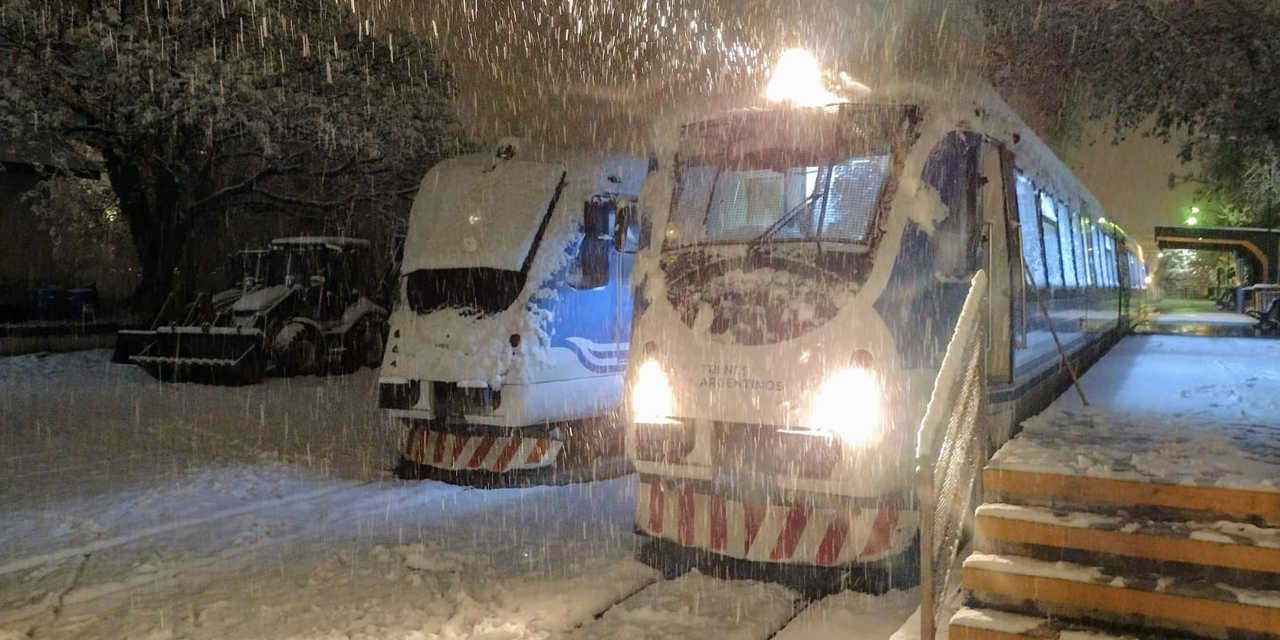
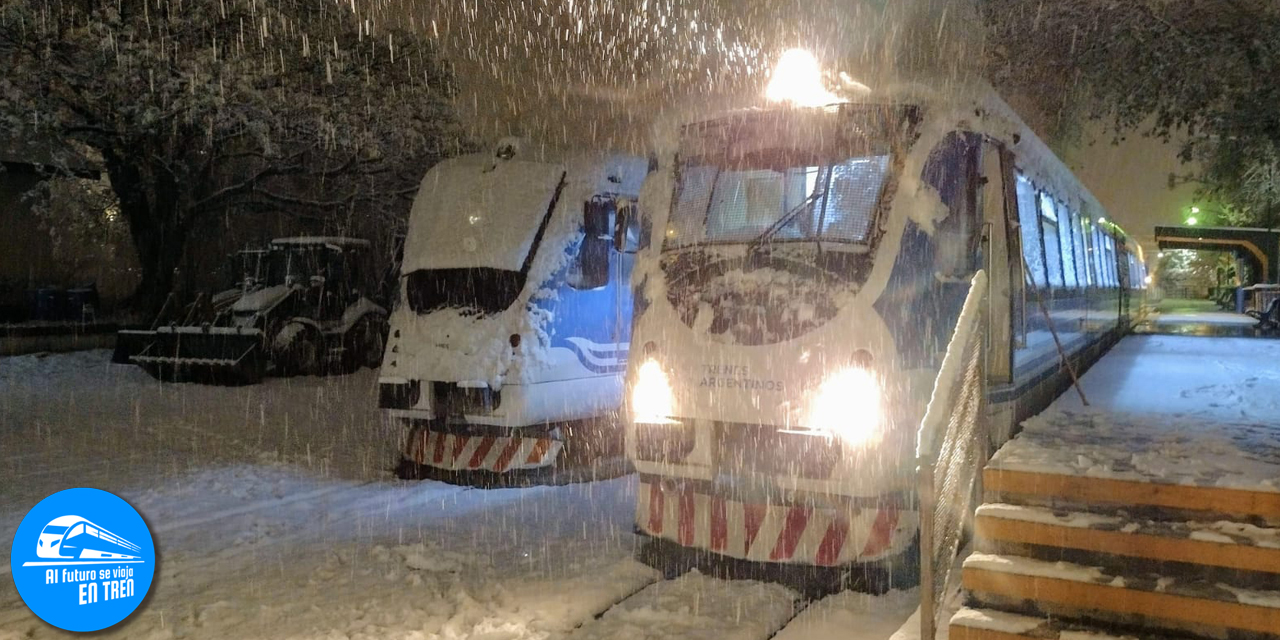
agregue info a la seccion de firma nuestra peticion

Changed region(s): [[0.0, 0.75, 0.125, 1.0]]

diff --git a/index.html b/index.html
@@ -154,7 +154,7 @@
       </div>
 
         <a class="navbar-brand me-5 d-lg-none" href="#">Herramientas</a>
-        <a class="navbar-brand me-5 d-none d-lg-block d-xl-block" href="#">Al Futuro se viaja EN TREN</a>
+        <a class="navbar-brands me-5 d-none d-lg-block d-xl-block" href="#">Al Futuro se viaja EN TREN</a>
         <div class="d-flex justify-content-center">
           <i class="bi bi-brightness-high"></i>
           <div class="form-check form-switch">
@@ -383,6 +383,9 @@
                       class="p-2 stextcolor mt-5 roboto-mono"
                       href="https://chng.it/Lj4djB2YS8"
                     >
+                    <div class="d-flex justify-content-center">
+                      <h5 class="w-75 fuente-defecto">Si estas de acuerdo en que el gobierno nacional debe mejorar los servicios ferroviarios para poder viajar mejor, ayudanos firmando nuestra propuesta.</h5>
+                    </div>
                       <button
                         type="button"
                         class="btn btn-firma btn-lg animate__animated animate__pulse animate__infinite"
@@ -415,19 +418,21 @@
                 <div
                   class="position-absolute contenedor-firma-web translate-middle w-100"
                 >
-                  <a
-                    target="_blank"
-                    class="p-2 stextcolor mt-5 roboto-mono"
-                    href="https://chng.it/Lj4djB2YS8"
-                  >
-                    <button
-                      type="button"
-                      id=""
-                      class="btn btn-firma btn-lg animate__animated animate__pulse animate__infinite"
-                    >
-                      ¡Firmá nuestra petición!
-                    </button>
-                  </a>
+                <a
+                target="_blank"
+                class="p-2 stextcolor mt-5 roboto-mono"
+                href="https://chng.it/Lj4djB2YS8"
+              >
+              <div class="d-flex justify-content-center">
+                <h5 class="w-75 fuente-defecto">Si estas de acuerdo en que el gobierno nacional debe mejorar los servicios ferroviarios para poder viajar mejor, ganar tiempo para tu vida personal y tener mejor calidad de vida ayudanos firmando nuestra propuesta.</h5>
+              </div>
+                <button
+                  type="button"
+                  class="btn btn-firma btn-lg animate__animated animate__pulse animate__infinite"
+                >
+                  ¡Firmá nuestra petición!
+                </button>
+              </a>
                   </div>
                 </div>
               </div>
@@ -453,19 +458,21 @@
                 <div
                   class="position-absolute contenedor-firma-web translate-middle w-100"
                 >
-                  <a
-                    target="_blank"
-                    class="p-2 stextcolor mt-5 roboto-mono"
-                    href="https://chng.it/Lj4djB2YS8"
-                  >
-                    <button
-                      type="button"
-                      id=""
-                      class="btn btn-firma btn-lg animate__animated animate__pulse animate__infinite"
-                    >
-                      ¡Firmá nuestra petición!
-                    </button>
-                  </a>
+                <a
+                target="_blank"
+                class="p-2 stextcolor mt-5 roboto-mono"
+                href="https://chng.it/Lj4djB2YS8"
+              >
+              <div class="d-flex justify-content-center">
+                <h5 class="w-75 fuente-defecto">Si estas de acuerdo en que el gobierno nacional debe mejorar los servicios ferroviarios para poder viajar mejor, ganar tiempo para tu vida personal y tener mejor calidad de vida ayudanos firmando nuestra propuesta.</h5>
+              </div>
+                <button
+                  type="button"
+                  class="btn btn-firma btn-lg animate__animated animate__pulse animate__infinite"
+                >
+                  ¡Firmá nuestra petición!
+                </button>
+              </a>
                   </div>
                 </div>
               </div>
@@ -491,19 +498,21 @@
                 <div
                   class="position-absolute contenedor-firma-web translate-middle w-100"
                 >
-                  <a
-                    target="_blank"
-                    class="p-2 stextcolor mt-5 roboto-mono"
-                    href="https://chng.it/Lj4djB2YS8"
-                  >
-                    <button
-                      type="button"
-                      id=""
-                      class="btn btn-firma btn-lg animate__animated animate__pulse animate__infinite"
-                    >
-                      ¡Firmá nuestra petición!
-                    </button>
-                  </a>
+                <a
+                target="_blank"
+                class="p-2 stextcolor mt-5 roboto-mono"
+                href="https://chng.it/Lj4djB2YS8"
+              >
+              <div class="d-flex justify-content-center">
+                <h5 class="w-75 fuente-defecto">Si estas de acuerdo en que el gobierno nacional debe mejorar los servicios ferroviarios para poder viajar mejor, ganar tiempo para tu vida personal y tener mejor calidad de vida ayudanos firmando nuestra propuesta.</h5>
+              </div>
+                <button
+                  type="button"
+                  class="btn btn-firma btn-lg animate__animated animate__pulse animate__infinite"
+                >
+                  ¡Firmá nuestra petición!
+                </button>
+              </a>
                   </div>
                 </div>
               </div>
@@ -684,6 +693,10 @@
                     class="p-2 stextcolor mt-5 roboto-mono"
                     href="https://chng.it/Lj4djB2YS8"
                   >
+                  <img class="logo-firma" src="/images/logofinalciruclo.png" alt="">
+                  <div class="d-flex justify-content-center">
+                    <h5 class="fuente-defecto-mobile">Si estas de acuerdo en que el gobierno nacional debe mejorar los servicios ferroviarios para poder viajar mejor, ayudanos firmando nuestra propuesta.</h5>
+                  </div>
                     <button
                       type="button"
                       id="paso3"
@@ -721,19 +734,23 @@
                 <div
                   class="position-absolute contenedor-firma translate-middle w-100"
                 >
-                  <a
-                    target="_blank"
-                    class="p-2 stextcolor mt-5 roboto-mono"
-                    href="https://chng.it/Lj4djB2YS8"
-                  >
-                    <button
-                      type="button"
-                      id=""
-                      class="btn btn-firma btn-lg animate__animated animate__pulse animate__infinite"
-                    >
-                      ¡Firmá nuestra petición!
-                    </button>
-                  </a>
+                <a
+                target="_blank"
+                class="p-2 stextcolor mt-5 roboto-mono"
+                href="https://chng.it/Lj4djB2YS8"
+              >
+              <img class="logo-firma" src="/images/logofinalciruclo.png" alt="">
+              <div class="d-flex justify-content-center">
+                <h5 class="fuente-defecto-mobile">Si estas de acuerdo en que el gobierno nacional debe mejorar los servicios ferroviarios para poder viajar mejor, ayudanos firmando nuestra propuesta.</h5>
+              </div>
+                <button
+                  type="button"
+                  id="paso3"
+                  class="btn btn-firma btn-lg animate__animated animate__pulse animate__infinite"
+                >
+                  ¡Firmá nuestra petición!
+                </button>
+              </a>
                 </div>
               </div>
             </div>
@@ -763,19 +780,23 @@
                 <div
                   class="position-absolute contenedor-firma translate-middle w-100"
                 >
-                  <a
-                    target="_blank"
-                    class="p-2 stextcolor mt-5 roboto-mono"
-                    href="https://chng.it/Lj4djB2YS8"
-                  >
-                    <button
-                      type="button"
-                      id=""
-                      class="btn btn-firma btn-lg animate__animated animate__pulse animate__infinite"
-                    >
-                      ¡Firmá nuestra petición!
-                    </button>
-                  </a>
+                <a
+                target="_blank"
+                class="p-2 stextcolor mt-5 roboto-mono"
+                href="https://chng.it/Lj4djB2YS8"
+              >
+              <img class="logo-firma" src="/images/logofinalciruclo.png" alt="">
+              <div class="d-flex justify-content-center">
+                <h5 class="fuente-defecto-mobile">Si estas de acuerdo en que el gobierno nacional debe mejorar los servicios ferroviarios para poder viajar mejor, ayudanos firmando nuestra propuesta.</h5>
+              </div>
+                <button
+                  type="button"
+                  id="paso3"
+                  class="btn btn-firma btn-lg animate__animated animate__pulse animate__infinite"
+                >
+                  ¡Firmá nuestra petición!
+                </button>
+              </a>
                 </div>
               </div>
             </div>
@@ -805,19 +826,23 @@
                 <div
                   class="position-absolute contenedor-firma translate-middle w-100"
                 >
-                  <a
-                    target="_blank"
-                    class="p-2 stextcolor mt-5 roboto-mono"
-                    href="https://chng.it/Lj4djB2YS8"
-                  >
-                    <button
-                      type="button"
-                      id=""
-                      class="btn btn-firma btn-lg animate__animated animate__pulse animate__infinite"
-                    >
-                      ¡Firmá nuestra petición!
-                    </button>
-                  </a>
+                <a
+                target="_blank"
+                class="p-2 stextcolor mt-5 roboto-mono"
+                href="https://chng.it/Lj4djB2YS8"
+              >
+              <img class="logo-firma" src="/images/logofinalciruclo.png" alt="">
+              <div class="d-flex justify-content-center">
+                <h5 class="fuente-defecto-mobile">Si estas de acuerdo en que el gobierno nacional debe mejorar los servicios ferroviarios para poder viajar mejor, ayudanos firmando nuestra propuesta.</h5>
+              </div>
+                <button
+                  type="button"
+                  id="paso3"
+                  class="btn btn-firma btn-lg animate__animated animate__pulse animate__infinite"
+                >
+                  ¡Firmá nuestra petición!
+                </button>
+              </a>
                 </div>
               </div>
             </div>

diff --git a/style.css b/style.css
@@ -10,8 +10,8 @@
 
 .modo-alternativo{
     --primary-color: rgba(31, 31, 31, 0.9);
-    --secondary-color: rgba(48, 48, 48, 0.945);
-    --resalt-color: rgba(18, 56, 75, 0.945);
+    --secondary-color: rgba(10, 79, 113, 0.945);
+    --resalt-color: rgba(34, 105, 141, 0.945);
     --font-size-base: 2rem;
     --font-colof-primary: rgb(227, 227, 227);
     --font-colof-secondary: rgb(9, 9, 9);
@@ -324,9 +324,15 @@ width: 80%;
     width: 45px;
 }
 
-.navbar-nav .nav-link.active, .navbar-nav .nav-link.show, .navbar-brand,.navbar-toggler-icon,.nav-link {
+.navbar-nav .nav-link.active, .navbar-nav .nav-link.show, .navbar-brand,.navbar-toggler-icon,.nav-link{
     color: var(--font-colof-primary);
     font-size: 3.5ch;
+
+}
+.navbar-brands{
+    margin-right: 9rem !important;
+    font-size: 2rem;
+
 }
 .nav-link:visited,.navbar-brand:visited{
     color: var(--font-colof-primary);
@@ -351,7 +357,7 @@ width: 80%;
 .bg-ferro-mobile{
     background-color: var(--secondary-color);
     box-shadow: 11px 11px 29px -11px rgba(0,0,0,0.75);
-    border-radius: 3%;
+    border-radius: 11px;
 }
 .btn-semaforo{
     background-color: rgba(25, 25, 25, 0.91);
@@ -428,7 +434,7 @@ width: 80%;
     
 }
 .btn-primary{
-    background-color: var(--primary-color);
+    background-color: var(--secondary-color);
     border-color: var(--secondary-color);
     box-shadow: 4px 10px 18px 6px rgba(0,0,0,0.77);
     font-family: "Squada One", sans-serif;
@@ -437,6 +443,10 @@ width: 80%;
 }
 .informacionmaterial{
     text-align: justify;
+}
+.imagen-nav{
+    position: absolute;
+    width: 10%;
 }
 .btn-primaryanimacion{
     color: var(--font-colof-primary);
@@ -563,13 +573,49 @@ height: 5rem;
 }
 .contenedor-firma{
     left: 50%;
-    bottom: 10%;
+    bottom: -5%;
     width: 90%;
+    background-color: var(--primary-color);
+    opacity: 0.9;
+    font-size: 0.8rem;
+    padding-bottom: 1rem;
+}
+.logo-firma{
+    bottom: 86%;
+    width: 17%;
+    position: absolute;
+    left: 42%;
 }
 .contenedor-firma-web{
     left: 50%;
-    bottom: 0%;
+    bottom: -8%;
     width: 90%;
+    background-color: var(--primary-color);
+    opacity: 0.9;
+    height: 10rem;
+    color: var(--font-colof-primary);
+    font-family: Roboto, sans-serif;
+    font-weight: 400;
+    font-style: normal;
+    font-weight: bold;
+}
+.fuente-defecto{
+    font-family: Roboto, sans-serif;
+    font-weight: 400;
+    font-style: normal;
+    font-weight: bold;
+    font-size: 1.2rem;
+    color: var(--font-colof-primary);
+}
+.fuente-defecto-mobile{
+    font-family: Roboto, sans-serif;
+    font-weight: 400;
+    font-style: normal;
+    font-weight: bold;
+    font-size: 1.0rem;
+    color: var(--font-colof-primary);
+    margin: 1rem 0 1rem  0 ;
+
 }
 .contenedor-titulo-web{
     left: 50%;

diff --git a/modules/historia.js b/modules/historia.js
@@ -38,6 +38,12 @@ export function botonhistoria() {
               <div class="carousel-item">
                 <img src="/images/historia/pdf_page-0010.jpg" class="d-block w-100" alt="...">
               </div>
+              <div class="carousel-item">
+                <img src="/images/historia/pdf_page-0011.jpg" class="d-block w-100" alt="...">
+              </div>
+              <div class="carousel-item">
+                <img src="/images/historia/pdf_page-0012.jpg" class="d-block w-100" alt="...">
+              </div>
             </div>
             <button class="carousel-control-prev" type="button" data-bs-target="#carouselExampler" data-bs-slide="prev">
               <span class="carousel-control-prev-icon" aria-hidden="true"></span>
